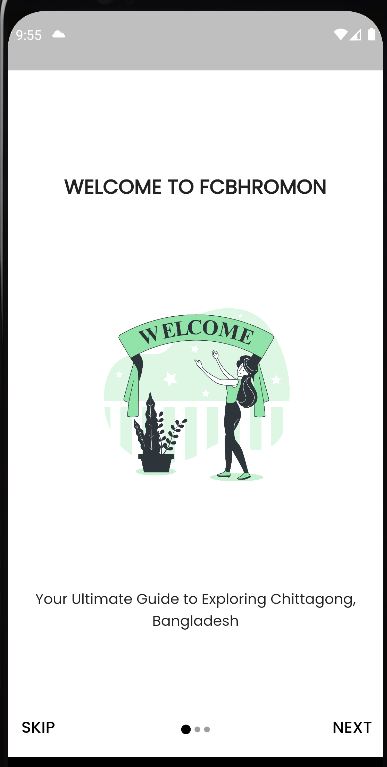
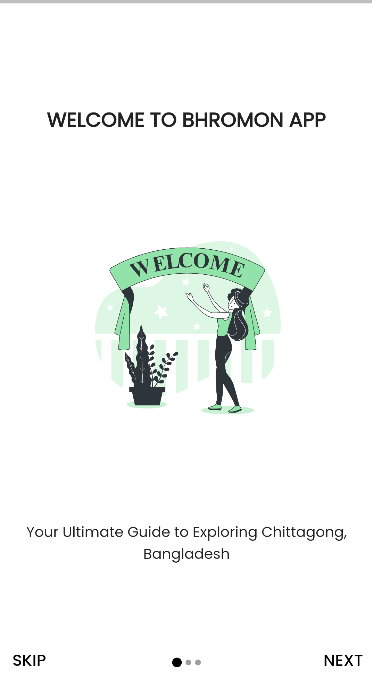
Onboarding screen

diff --git a/lib/views/onboarding screen/onboarding_screen.dart b/lib/views/onboarding screen/onboarding_screen.dart
@@ -1,13 +1,17 @@
-// ignore_for_file: use_key_in_widget_constructors, prefer_const_constructors, prefer_const_literals_to_create_immutables
+// ignore_for_file: use_key_in_widget_constructors, prefer_const_constructors, prefer_const_literals_to_create_immutables, avoid_unnecessary_containers
 import 'package:flutter/material.dart';
 import 'package:flutter_screenutil/flutter_screenutil.dart';
 import 'package:flutter_walkthrough_screen/flutter_walkthrough_screen.dart';
 import 'package:bhromon_application/constant/app_string.dart';
 import '../auth screen/login_screen.dart';
-import '../auth screen/sign_in.dart';
 
 class OnboardingScreen extends StatelessWidget {
+
+  //! ---------------Onboarding screen---------------
   final List<OnbordingData> list = [
+
+    //! ---------------Onboarding screen1 ---------------
+
     OnbordingData(
       imageHeight: 300.h,
       imageWidth: 250.w,
@@ -23,6 +27,8 @@ class OnboardingScreen extends StatelessWidget {
             textAlign: TextAlign.center, style: TextStyle(fontSize: 18.sp)),
       ),
     ),
+
+    //! ---------------Onboarding screen2---------------
     OnbordingData(
       imageHeight: 300.h,
       imageWidth: 250.w,
@@ -36,6 +42,8 @@ class OnboardingScreen extends StatelessWidget {
             textAlign: TextAlign.center, style: TextStyle(fontSize: 18.sp)),
       ),
     ),
+
+    //! ---------------Onboarding screen3---------------
     OnbordingData(
       imageHeight: 300.h,
       imageWidth: 250.w,
@@ -55,9 +63,6 @@ class OnboardingScreen extends StatelessWidget {
   Widget build(BuildContext context) {
     return Scaffold(
       body: Container(
-        decoration: BoxDecoration(
-          color: Colors.black, // Set the background color here
-        ), 
         child: IntroScreen(
           onbordingDataList: list,
           colors: [

diff --git a/lib/constant/app_string.dart b/lib/constant/app_string.dart
@@ -5,7 +5,7 @@ class AppString{
   static const AppName = "BHROMON";
 
   // ! ----------------OnBoarding Title text ----------------------------
-  static const onboarding_screen1_title =  'WELCOME TO FCBHROMON';
+  static const onboarding_screen1_title =  'WELCOME TO BHROMON APP';
   static const onboarding_screen2_title =  "DISCOVER CHITTAGONG HIDDEN GEMS";
   static const onboarding_screen3_title =  'PLAN YOUR PERFECT TRIP';
 
